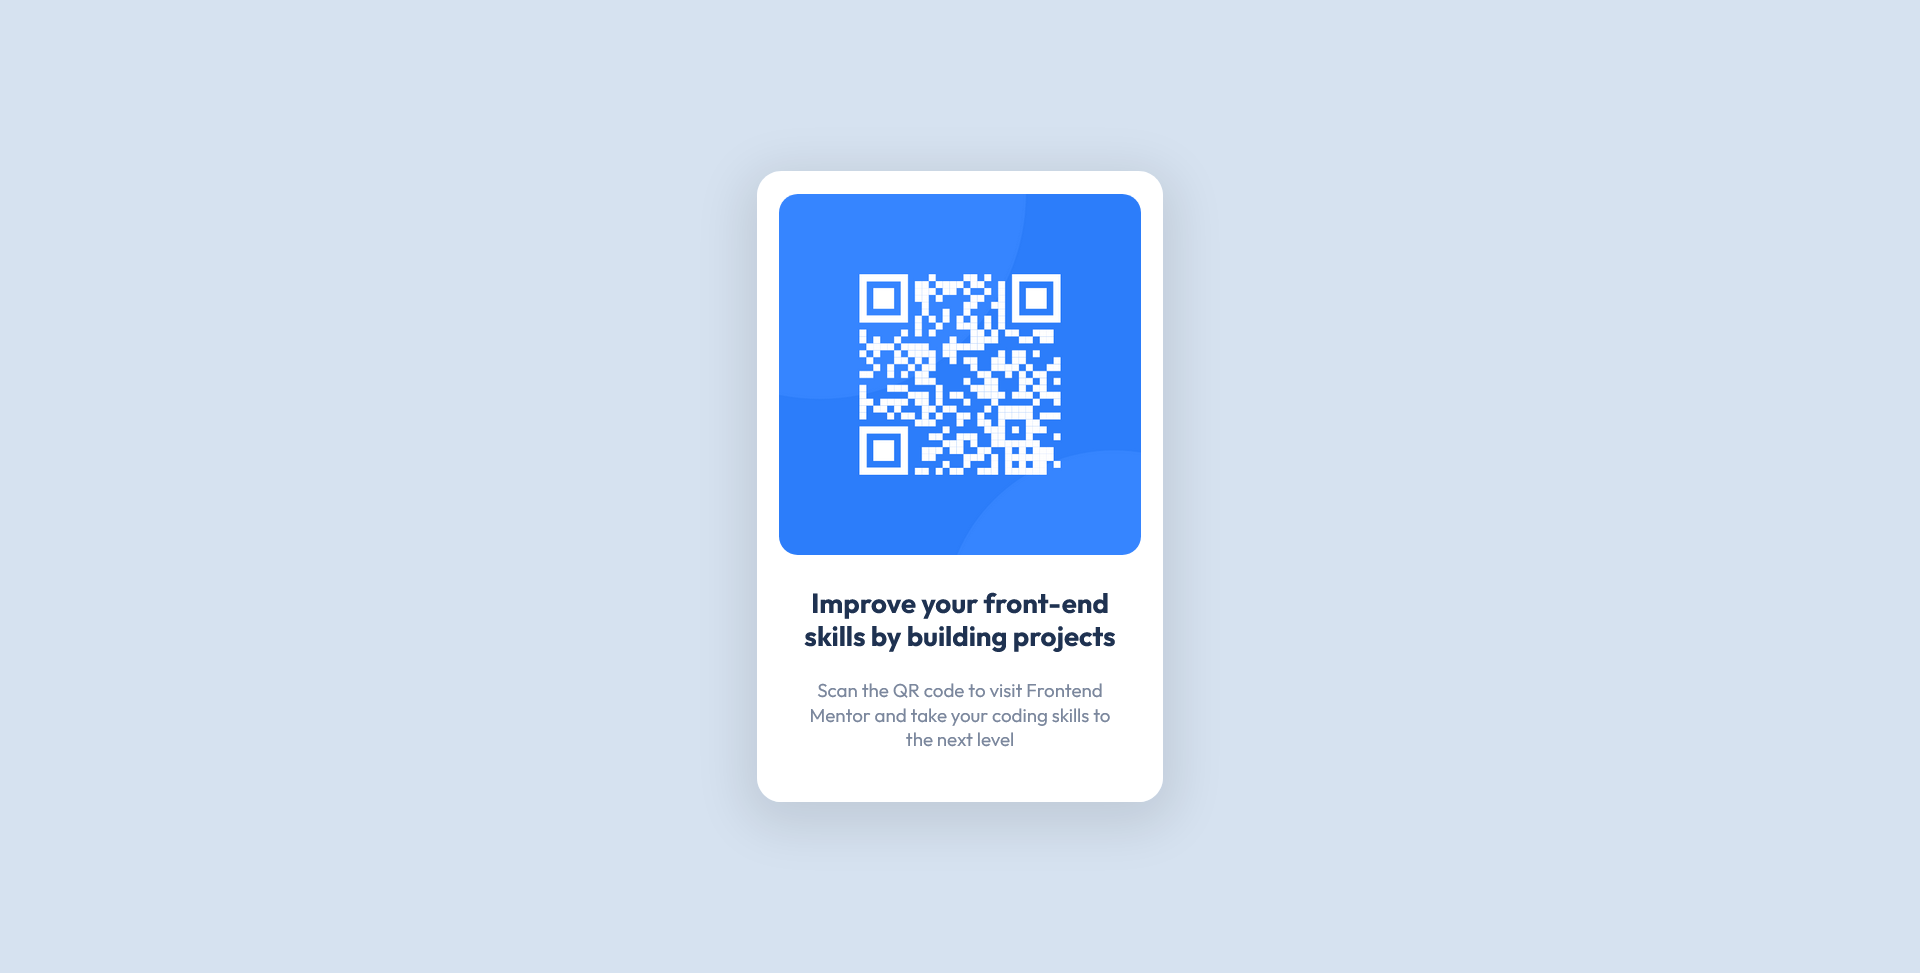
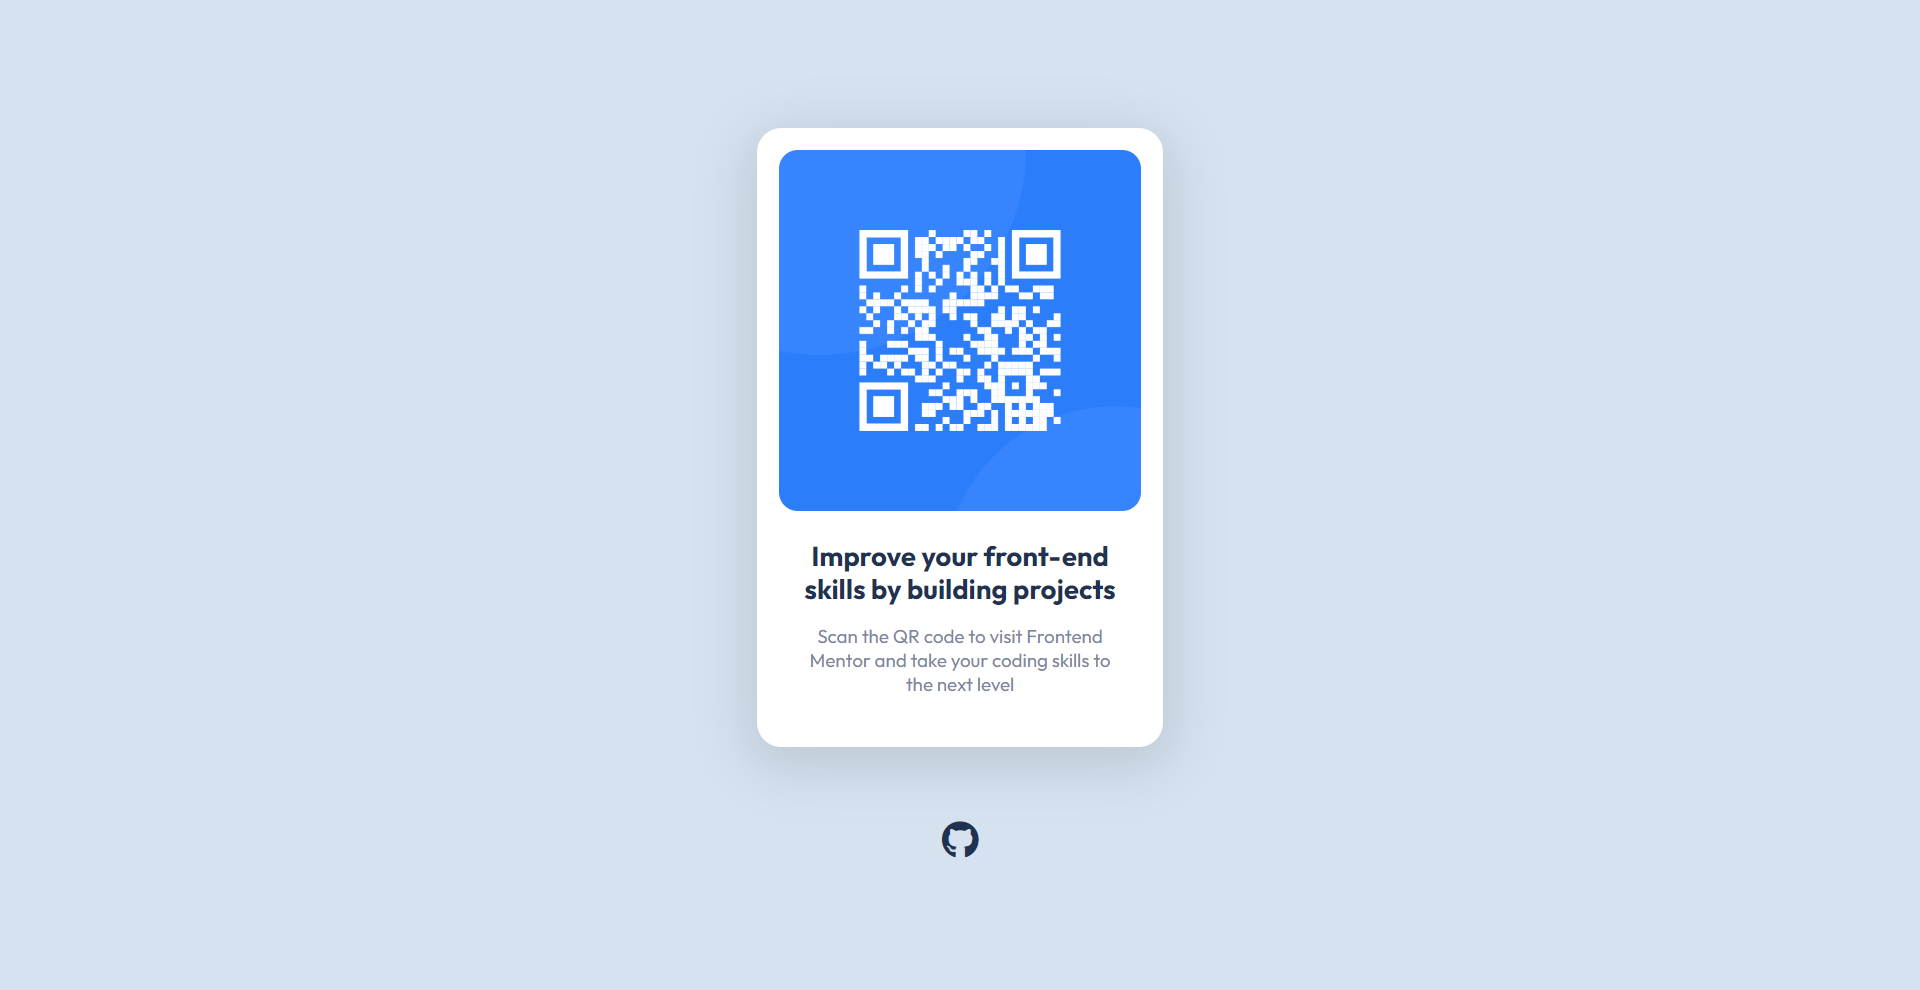
Add link to github repo

Changed region(s): [[0.375, 0.1233, 0.625, 0.8633]]

diff --git a/index.html b/index.html
@@ -21,6 +21,9 @@
     <link rel="preconnect" href="https://fonts.googleapis.com">
     <link rel="preconnect" href="https://fonts.gstatic.com" crossorigin>
     <link href="https://fonts.googleapis.com/css2?family=Outfit:wght@400;700&display=swap" rel="stylesheet">
+
+    <!-- Font Awesome -->
+    <script src="https://kit.fontawesome.com/fb61df7a3d.js" crossorigin="anonymous"></script>
 </head>
 
 <body>
@@ -38,6 +41,10 @@
             </div>
         </div>
     </main>
+
+    <footer>
+        <a href="https://github.com/robinjmm/qr-code-component" target="_blank"><i class="fa-brands fa-github"></i></a>
+    </footer>
 </body>
 
 </html>

diff --git a/scss/layout/_home.scss b/scss/layout/_home.scss
@@ -1,9 +1,9 @@
 @use "../base/variables" as *;
 
 body {
-    // width: 100vw;
     padding: 5vh 0;
     display: flex;
+    flex-direction: column;
     justify-content: center;
     align-items: center;
     background-color: var(--main-bg-color);
@@ -13,4 +13,5 @@ body {
 main {
     width: min(90%, 325px);
     margin: 0 auto;
+    margin-bottom: rem(60px);
 }

diff --git a/scss/components/_link-icons.scss b/scss/components/_link-icons.scss
@@ -1,0 +1,7 @@
+@use "../base/variables" as *;
+
+.fa-github {
+    color: var(--heading-color);
+    font-size: rem(30px);
+    cursor: pointer;
+}

diff --git a/scss/styles.scss b/scss/styles.scss
@@ -6,6 +6,8 @@
 
 @use "components/card";
 
+@use "components/link-icons";
+
 @use "layout/home";
 
 @use "layout/media-queries";
